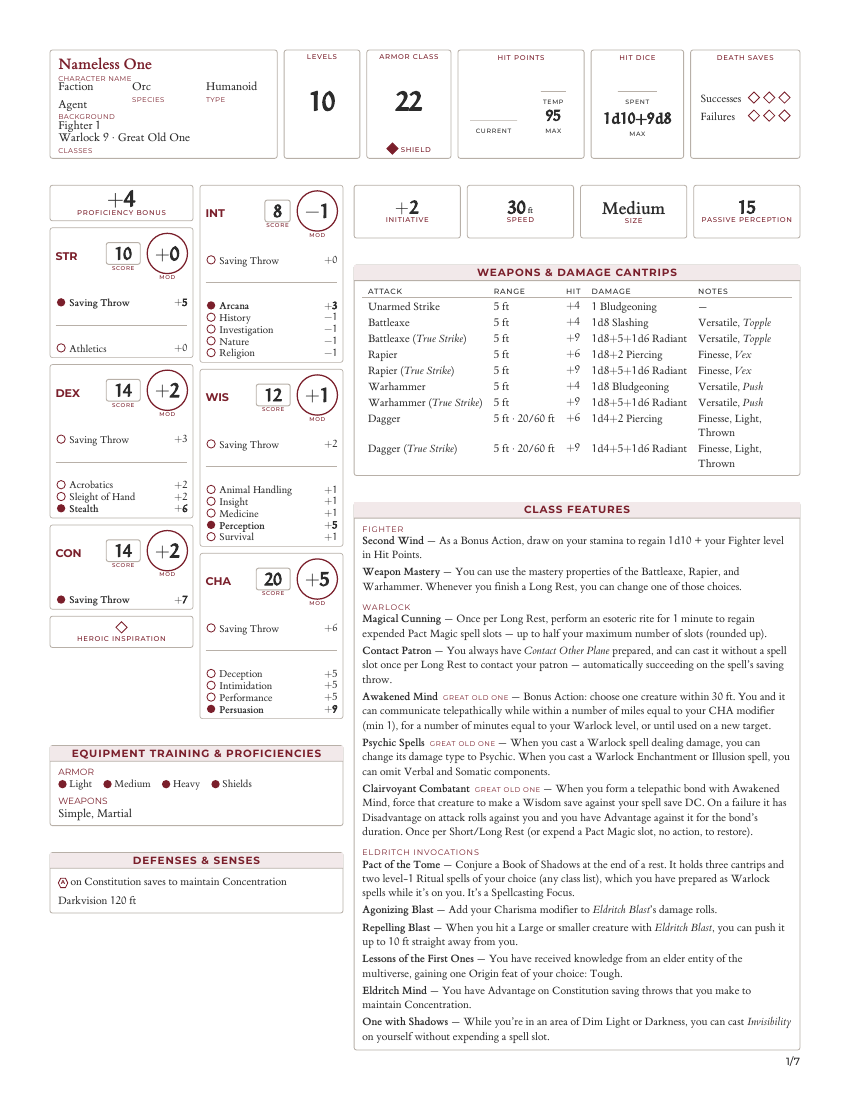
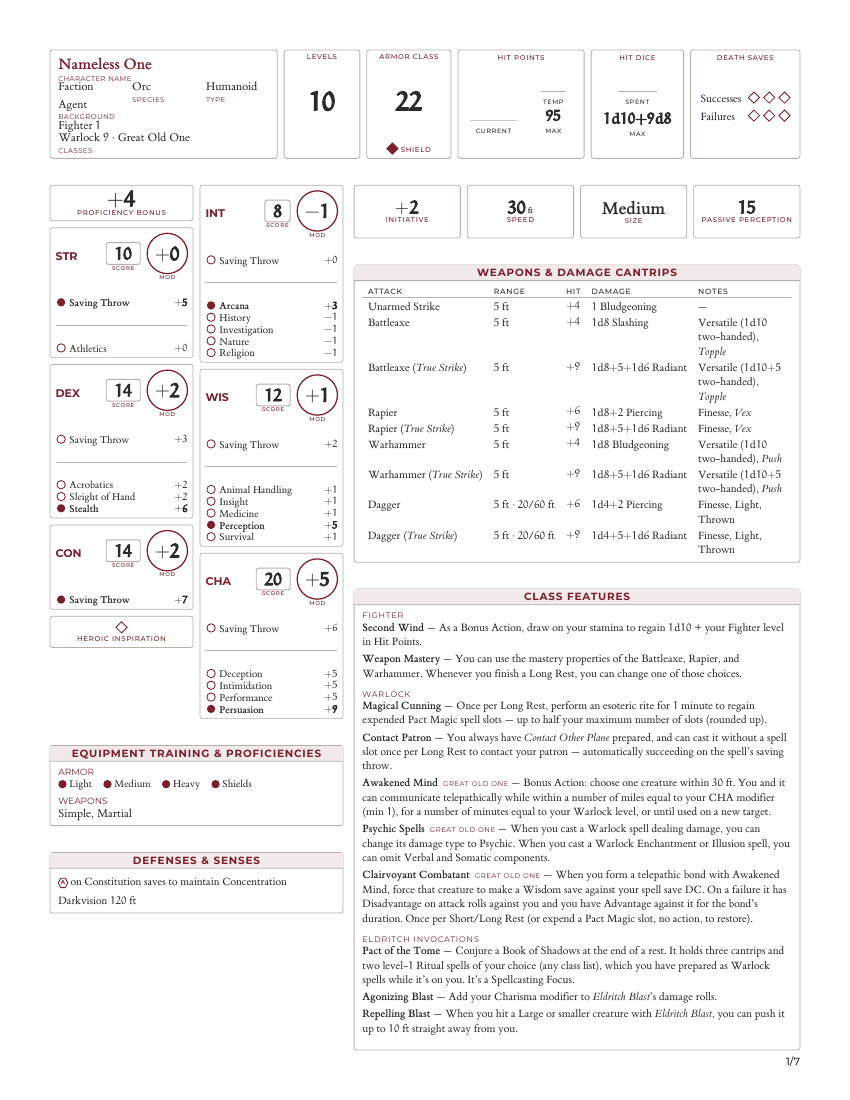
Model the Versatile weapon property and the grip

Changed region(s): [[0.4282, 0.2782, 0.9176, 0.9582]]

diff --git a/CLAUDE.md b/CLAUDE.md
@@ -550,7 +550,22 @@ Effects are tagged dicts the resolver folds (all `eff-*`):
   line as its own plain-string `mastery` field (the attack table renders
   it *italicized* after the ordinary properties --- typographic
   emphasis, not a new marker glyph); untrained, it is dropped entirely
-  (see below).
+  (see below). The **Versatile** property leaves `properties` the same
+  way, for the same reason --- what it says depends on the character.
+  Two fields carry it: `versatile`, the damage die the weapon deals in
+  two hands (weapon data --- every Versatile weapon in the catalog
+  declares it, and `_weapon` asserts the die and the property come
+  together), and `two-handed`, the grip *this* character wields it in,
+  set by `two-handed()` (see the weapons catalog note). The grip picks
+  the die every line for that weapon rolls --- the True Strike and
+  Booming Blade lines attack with the same weapon --- and the resolver
+  puts the other grip's **full damage**, modifier included, on the line
+  as `versatile-damage`, with `versatile-grip` naming that grip. The
+  attack table's Notes cell reads `Versatile (1d10+4 two-handed)` beside
+  a one-handed `1d8+4` in DAMAGE, so a player who switches grips
+  mid-fight reads the new damage off the sheet. Shillelagh's line
+  carries neither field: that cantrip sets the damage die itself, and
+  the grip does not change it.
 - `eff-weapon-mastery(..weapons)` --- the weapon names (bare strings,
   matched case-insensitively) a character has mastered. Emitted by the
   martial classes' `mastery:` param
@@ -705,11 +720,14 @@ visible), `proficiencies`
 --- `modifier` is the casting ability's own mod, carried because
 `attack`/`save-dc` may include `eff-spellcasting-bonus` item bonuses, so
 display never re-derives it as attack − PB), `attacks` (per weapon:
-`bonus`/`damage`/`damage-type`/`range`/`thrown-range`/`properties`/`mastery`
+`bonus`/`damage`/`damage-type`/`range`/`thrown-range`/`properties`/`mastery`,
+plus `versatile-damage`/`versatile-grip` on a Versatile weapon
 --- `range` is the reach or projectile range with any `eff-reach` bonus
 already folded in and `thrown-range` the separate throw range (see
 `eff-weapon`); the trained mastery property as its own plain string, or
-`none`; never merged into `properties`), `size`, `creature-type`, the display-only
+`none`; never merged into `properties`; `damage` is the damage of the
+grip the character wields the weapon in and `versatile-damage` the other
+grip's, both with the modifier folded in), `size`, `creature-type`, the display-only
 gear pair `equipped`/`equipment` --- **two lists with different
 meanings; never merge them**: `equipped` is the gear whose effects are
 **live** on the sheet (every top-level weapon/armor/shield/magic-item
@@ -810,7 +828,9 @@ ability, `mod (+ PB if proficient)` plus any flat `eff-save-bonus`
 `DC = 8 + PB + ability mod`, `attack = PB + ability mod`, each plus any
 matching `eff-spellcasting-bonus`. **Attacks**: per weapon,
 `bonus = ability mod (+ PB if proficient with the category)`, damage =
-dice + signed ability mod. A weapon's attack ability defaults to Str
+dice + signed ability mod (`_damage-string`, which the Versatile
+alternative grip runs through too, so both dice read the same
+arithmetic). A weapon's attack ability defaults to Str
 (melee) / Dex (ranged), but a **Finesse** weapon (with no explicit
 `ability`) uses the **better of Str/Dex** --- so
 `weapon.dagger`/`weapon.shortsword` swing off Dex for a Dex build and
@@ -1185,6 +1205,16 @@ Thrown weapon: `range: "5 ft"` (its reach) plus
 `shillelagh: true` --- the cantrip names exactly those two weapons, so
 eligibility is weapon data, mirroring `true-strike: false` (see the
 weapon-attack-cantrip note above).
+Every Versatile weapon (quarterstaff 1d8; longsword, battleaxe,
+warhammer 1d10) declares its two-handed die as `versatile:`; `_weapon`
+asserts that die and the property are declared together.
+`two-handed(base)` (exported top-level beside `magic-weapon`, and
+composing with it in either order) rewrites the base feature's
+`eff-weapon` with the grip: `two-handed(magic-weapon(weapon.longsword,   bonus: 1))` is Kragor's sword, rolling 1d10 instead of 1d8. It panics on
+a weapon with no versatile die, since only a Versatile weapon has a
+second one. A Shield leaves no hand free for the second grip, and the
+resolver still gives that character the shield's AC, so declaring both
+sheets two fighting styles for one character.
 `magic-weapon(base, bonus:, name:)` (exported top-level, mirroring
 `item.magic-armor`) builds a **`+N` version of a catalog weapon** by
 rewriting the base *feature object's* `eff-weapon` --- flat `bonus` on

diff --git a/README.md b/README.md
@@ -166,6 +166,9 @@ A few authoring rules worth knowing up front:
 - **Gear declared as a feature is equipped** and its effects are live (it lists under EQUIPPED).
   `carried(item.…)` puts a modelled item in the pack instead: inert, listed under INVENTORY.
   `equipment:` is for unmodelled kit only.
+- **A Versatile weapon is wielded in one hand** unless you say otherwise.
+  `two-handed(weapon.longsword)` rolls its bigger die instead; either way the attack line
+  states what the other grip would deal.
 - **Languages are a character-creation choice** in 2024 — Common plus two chosen. Species and
   standard backgrounds grant none.
 
